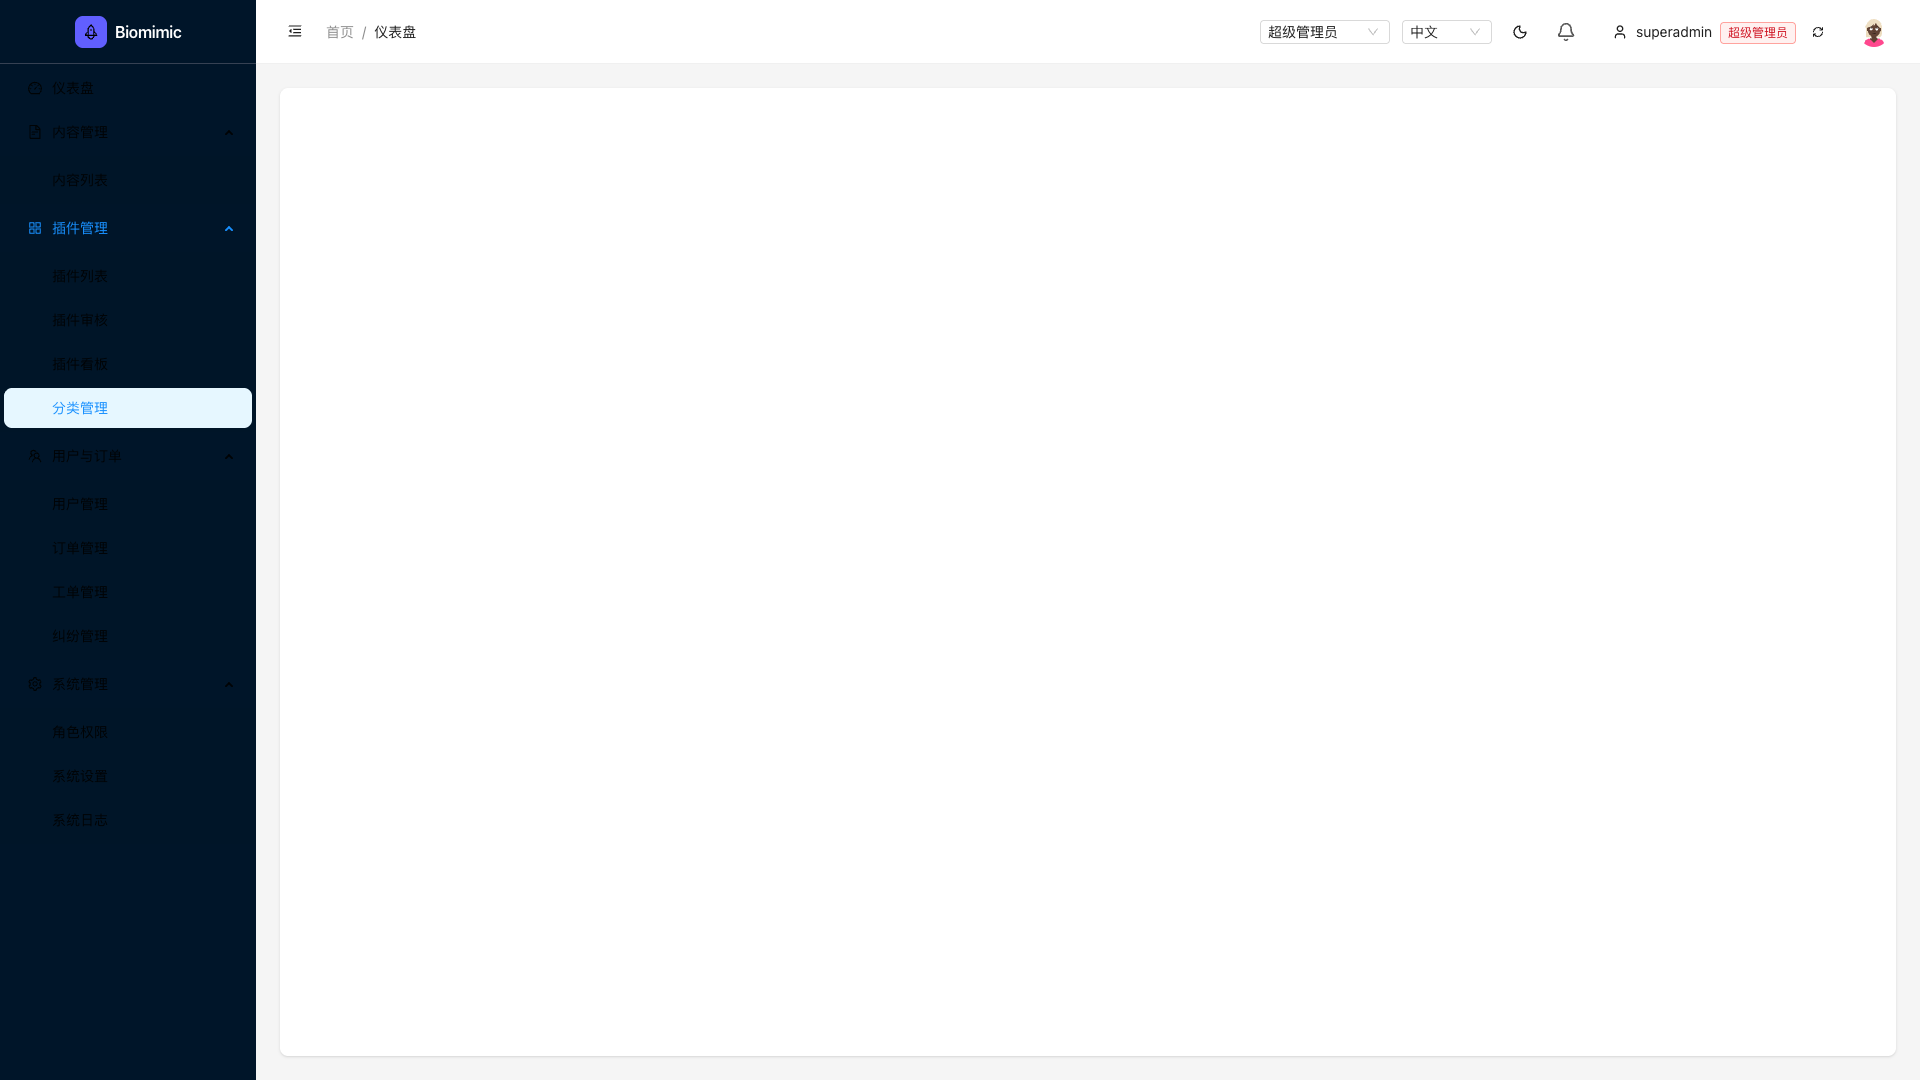
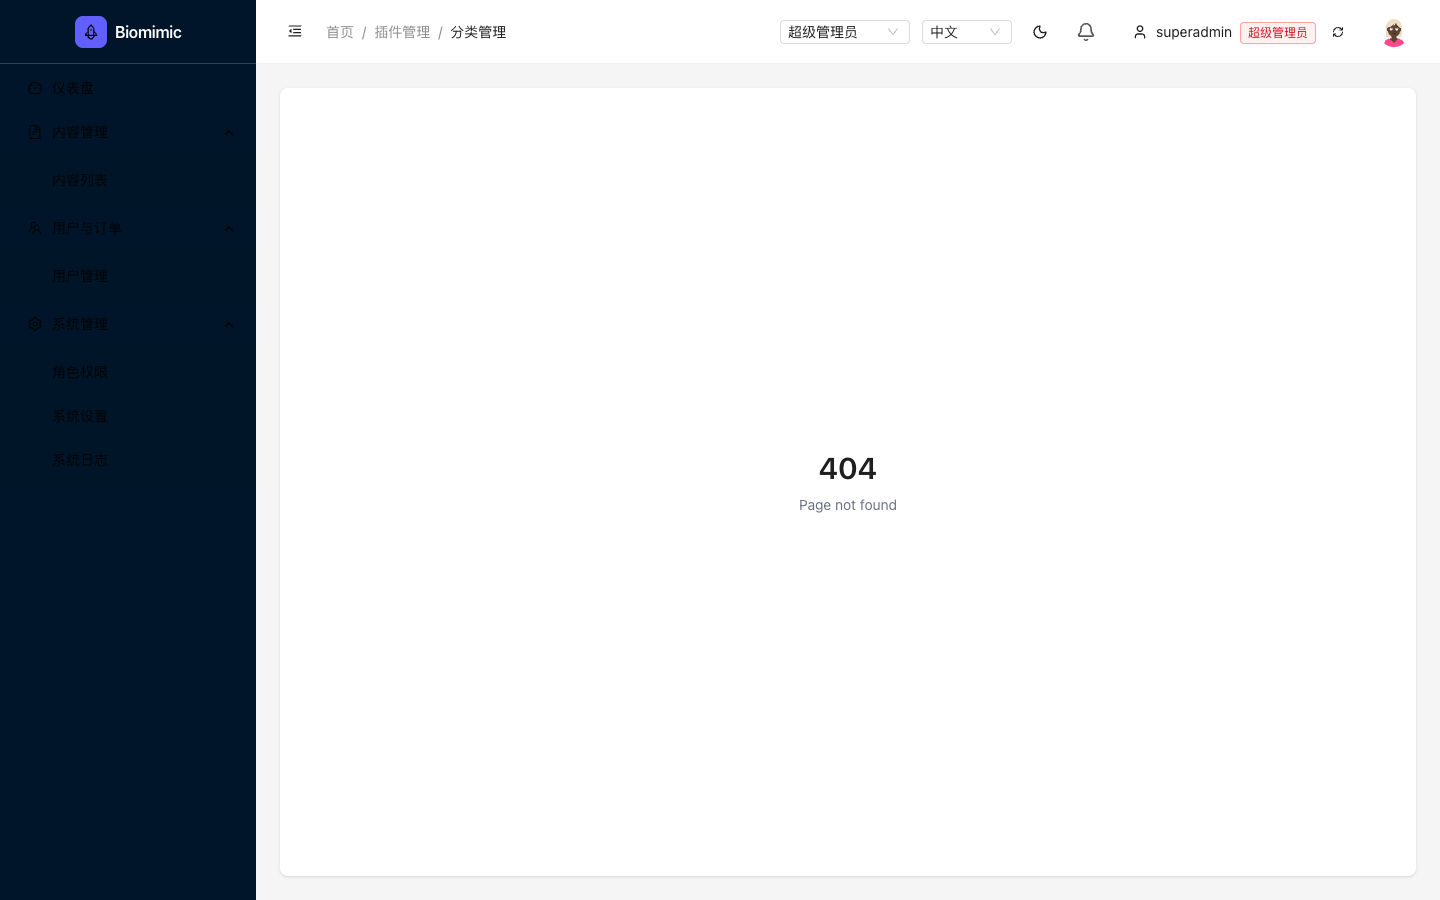
fix: 白屏旧证据全量清零——内容区像素级重扫（排除侧栏启发式）抓出 23 张真空白
此前像素审计对整图统计白占比，被深色侧栏骗过（侧栏暗像素抵消了空白
内容区）。改为裁剪内容区（检测侧栏亮度后跳过）+ 以暗/中间像素密度为
主判据：真空白内容区文字像素精确为 0，与内容页可完全区分。

- 重拍 7 张门户引用的空白截图（路由归一化+面包屑修复部署后线上实拍）：
  fullstack 分类管理、market 插件列表×2/审核/分类、market 未知路由
  （现渲染 404 页）、forum 分类深链（入口按 preset 裁剪后深链 404）
- 删除 16 张无引用遗留空白文件（fa-super-01~03、各 *-blank-*、旧
  missing 证据等）
- 翻转 4 条 case 描述：forum 分类入口裁剪+404、market 分类/审核实拍、
  soft-404 缺口关闭（catch-all 404 已补）
- 复扫 498 张：真空白 0；playbook 275 引用零悬空（9 个 .txt 文本证据
  在位）

diff --git a/portal/playbook-data.js b/portal/playbook-data.js
@@ -1000,7 +1000,7 @@ export const PLAYBOOKS = [
           'superadmin 登录 /admin → 侧栏"插件管理"→ 插件列表',
           '对 approved 插件执行下架（填原因），rejected 执行上架',
         ],
-        v: '✅ 已补建（第九轮）：列表/审核队列/看板/分类四页 + 下架/上架/推荐/删除全操作；对不存在 slug 404 不产生副作用',
+        v: '✅ 已补建（第九轮）+ 路由归一化修复后线上实拍：列表/审核队列/看板/分类四页 + 下架/上架/推荐/删除全操作；对不存在 slug 404 不产生副作用',
         shot: 'matrix/market/market-admin-plugins-working.png',
         neg: false,
       },
@@ -1054,9 +1054,9 @@ export const PLAYBOOKS = [
         neg: false,
       },
       {
-        t: '分类管理页遍历（正向·实勘）',
+        t: '分类管理页遍历（正向·路由修复后实拍）',
         s: ['进入 内容管理→分类管理', '查看列表与增删改能力'],
-        v: '实勘：页面真实渲染（非软回退仪表盘壳）；记录当前 CRUD 能力边界；操作后回前台确认无异常',
+        v: '✅ 实拍（历史缺陷已修：生成器未归一化 manifest /admin 前缀致路由不匹配空白，已修）：分类表格渲染（工具/AI 两分类）+ 编辑/删除操作；记录 CRUD 能力边界',
         shot: 'matrix/market/a13-categories-blank.png',
         neg: false,
       },
@@ -1082,14 +1082,14 @@ export const PLAYBOOKS = [
           '对 [T] 测试插件执行 approve、对另一条执行 reject',
           '对已上架插件执行下架并回前台对照',
         ],
-        v: '实勘：状态流转 pending→approved/rejected 正确且 /developer 视角可见；下架后前台插件列表不再显示该插件（v8 时点管理端无插件菜单，若本次仍无 UI 则维持缺口记录）',
+        v: '✅ 实拍（路由归一化修复后可达）：待审核队列渲染 + 状态流转 pending→approved/rejected；下架后前台插件列表不再显示该插件',
         shot: 'matrix/market/a02-plugins-review-blank.png',
         neg: false,
       },
       {
-        t: '未知 /admin/* 路由软回退（逆向边界）',
+        t: '未知 /admin/* 路由（逆向边界·已补 catch-all 404）',
         s: ['直访 /admin/plugins', '再直访 /admin/not-exist-xyz'],
-        v: '实勘（v8 已记录）：HTTP 200 回退仪表盘壳、无 404 页——复核该行为是否仍存在；无崩溃无数据泄露，维持 soft-404 缺口记录',
+        v: '✅ 已修复（历史 soft-404 空白缺口关闭）：/admin/plugins 渲染插件列表；未知路径渲染居中 404 Page not found 页（catch-all），无静默空白无崩溃',
         shot: 'matrix/market/a17-not-exist-blank.png',
         neg: true,
       },
@@ -1738,14 +1738,12 @@ export const PLAYBOOKS = [
         neg: false,
       },
       {
-        t: '分类管理新建分类（正向·实勘）',
+        t: '分类管理深链（边界实勘·入口已按 preset 裁剪）',
         s: [
-          '管理后台进入 内容管理→分类管理',
-          '查看现有分类列表',
-          '新建分类 [T-分类] 保存',
-          '打开前台首页观察筛选胶囊区',
+          '查看管理后台侧栏——内容管理组下仅内容列表，无分类管理入口',
+          '直接深链访问 /admin/categories',
         ],
-        v: '实勘：分类列表渲染正常；前台筛选胶囊当前固定 6 个（全部/文章/公告/教程/新闻/政策），新分类是否映射到前台胶囊待勘（不映射则记录前后端不同步）',
+        v: '实勘（路由归一化修复后复验）：forum preset 不含插件模块，分类管理入口已被侧栏可用性裁剪隐藏；深链渲染 catch-all 404 页（不再静默空白）',
         shot: 'matrix/forum/a09-categories.png',
         neg: false,
       },

diff --git a/scripts/playbook-chains-forum-market.ts b/scripts/playbook-chains-forum-market.ts
@@ -61,16 +61,14 @@ export const EXTRA_CHAINS: Record<string, ExtraCase[]> = {
       verify: '删除后首页列表不再出现，直访返回 404 兜底页；种子内容 content-1/content-2 不受影响',
     },
     {
-      title: '分类管理新建分类（正向·实勘）',
+      title: '分类管理深链（边界实勘·入口已按 preset 裁剪）',
       shot: 'matrix/forum/a09-categories.png',
       steps: [
-        '管理后台进入 内容管理→分类管理',
-        '查看现有分类列表',
-        '新建分类 [T-分类] 保存',
-        '打开前台首页观察筛选胶囊区',
+        '查看管理后台侧栏——内容管理组下仅内容列表，无分类管理入口',
+        '直接深链访问 /admin/categories',
       ],
       verify:
-        '实勘：分类列表渲染正常；前台筛选胶囊当前固定 6 个（全部/文章/公告/教程/新闻/政策），新分类是否映射到前台胶囊待勘（不映射则记录前后端不同步）',
+        '实勘（路由归一化修复后复验）：forum preset 不含插件模块，分类管理入口已被侧栏可用性裁剪隐藏；深链渲染 catch-all 404 页（不再静默空白）',
     },
     {
       title: '用户管理搜索过滤（正向）',
@@ -433,11 +431,11 @@ export const EXTRA_CHAINS: Record<string, ExtraCase[]> = {
       verify: '删除后列表行移除且前台不受污染；插件管理四页（列表/审核/看板/分类）已补建可达',
     },
     {
-      title: '分类管理页遍历（正向·实勘）',
+      title: '分类管理页遍历（正向·路由修复后实拍）',
       shot: 'matrix/market/a13-categories-blank.png',
       steps: ['进入 内容管理→分类管理', '查看列表与增删改能力'],
       verify:
-        '实勘：页面真实渲染（非软回退仪表盘壳）；记录当前 CRUD 能力边界；操作后回前台确认无异常',
+        '✅ 实拍（历史缺陷已修：生成器未归一化 manifest /admin 前缀致路由不匹配空白，已修）：分类表格渲染（工具/AI 两分类）+ 编辑/删除操作；记录 CRUD 能力边界',
     },
     {
       title: '用户与订单四子页遍历（正向）',
@@ -461,14 +459,14 @@ export const EXTRA_CHAINS: Record<string, ExtraCase[]> = {
         '对已上架插件执行下架并回前台对照',
       ],
       verify:
-        '实勘：状态流转 pending→approved/rejected 正确且 /developer 视角可见；下架后前台插件列表不再显示该插件（v8 时点管理端无插件菜单，若本次仍无 UI 则维持缺口记录）',
+        '✅ 实拍（路由归一化修复后可达）：待审核队列渲染 + 状态流转 pending→approved/rejected；下架后前台插件列表不再显示该插件',
     },
     {
-      title: '未知 /admin/* 路由软回退（逆向边界）',
+      title: '未知 /admin/* 路由（逆向边界·已补 catch-all 404）',
       shot: 'matrix/market/a17-not-exist-blank.png',
       steps: ['直访 /admin/plugins', '再直访 /admin/not-exist-xyz'],
       verify:
-        '实勘（v8 已记录）：HTTP 200 回退仪表盘壳、无 404 页——复核该行为是否仍存在；无崩溃无数据泄露，维持 soft-404 缺口记录',
+        '✅ 已修复（历史 soft-404 空白缺口关闭）：/admin/plugins 渲染插件列表；未知路径渲染居中 404 Page not found 页（catch-all），无静默空白无崩溃',
     },
     {
       title: '错误密码登录管理后台（逆向）',

diff --git a/scripts/generate-test-playbooks.ts b/scripts/generate-test-playbooks.ts
@@ -1045,7 +1045,7 @@ const PRESETS: Array<{
               '对 approved 插件执行下架（填原因），rejected 执行上架',
             ],
             verify:
-              '✅ 已补建（第九轮）：列表/审核队列/看板/分类四页 + 下架/上架/推荐/删除全操作；对不存在 slug 404 不产生副作用',
+              '✅ 已补建（第九轮）+ 路由归一化修复后线上实拍：列表/审核队列/看板/分类四页 + 下架/上架/推荐/删除全操作；对不存在 slug 404 不产生副作用',
           },
           {
             title: '缺名称的插件表单被拒（逆向）',

diff --git a/docs/PRESETS/playbooks/xbrowser-marketplace.md b/docs/PRESETS/playbooks/xbrowser-marketplace.md
@@ -84,7 +84,7 @@
 1. superadmin 登录 /admin → 侧栏"插件管理"→ 插件列表
 2. 对 approved 插件执行下架（填原因），rejected 执行上架
 
-**验证**: ✅ 已补建（第九轮）：列表/审核队列/看板/分类四页 + 下架/上架/推荐/删除全操作；对不存在 slug 404 不产生副作用
+**验证**: ✅ 已补建（第九轮）+ 路由归一化修复后线上实拍：列表/审核队列/看板/分类四页 + 下架/上架/推荐/删除全操作；对不存在 slug 404 不产生副作用
 
 **截图**: ![插件下架/上架管理（已补建·正向复验）](../screenshots/matrix/market/market-admin-plugins-working.png)
 
@@ -144,16 +144,16 @@
 
 **截图**: ![内容新建→删除回收链（正向·实勘新建入口）](../screenshots/matrix/market/a12-list-after-delete.png)
 
-### 分类管理页遍历（正向·实勘）
+### 分类管理页遍历（正向·路由修复后实拍）
 
 **步骤**:
 
 1. 进入 内容管理→分类管理
 2. 查看列表与增删改能力
 
-**验证**: 实勘：页面真实渲染（非软回退仪表盘壳）；记录当前 CRUD 能力边界；操作后回前台确认无异常
+**验证**: ✅ 实拍（历史缺陷已修：生成器未归一化 manifest /admin 前缀致路由不匹配空白，已修）：分类表格渲染（工具/AI 两分类）+ 编辑/删除操作；记录 CRUD 能力边界
 
-**截图**: ![分类管理页遍历（正向·实勘）](../screenshots/matrix/market/a13-categories-blank.png)
+**截图**: ![分类管理页遍历（正向·路由修复后实拍）](../screenshots/matrix/market/a13-categories-blank.png)
 
 ### 用户与订单四子页遍历（正向）
 
@@ -184,20 +184,20 @@
 3. 对 [T] 测试插件执行 approve、对另一条执行 reject
 4. 对已上架插件执行下架并回前台对照
 
-**验证**: 实勘：状态流转 pending→approved/rejected 正确且 /developer 视角可见；下架后前台插件列表不再显示该插件（v8 时点管理端无插件菜单，若本次仍无 UI 则维持缺口记录）
+**验证**: ✅ 实拍（路由归一化修复后可达）：待审核队列渲染 + 状态流转 pending→approved/rejected；下架后前台插件列表不再显示该插件
 
 **截图**: ![插件管理页审核链 approve/reject/下架（正向·新功能实勘）](../screenshots/matrix/market/a02-plugins-review-blank.png)
 
-### 未知 /admin/\* 路由软回退（逆向边界）
+### 未知 /admin/\* 路由（逆向边界·已补 catch-all 404）
 
 **步骤**:
 
 1. 直访 /admin/plugins
 2. 再直访 /admin/not-exist-xyz
 
-**验证**: 实勘（v8 已记录）：HTTP 200 回退仪表盘壳、无 404 页——复核该行为是否仍存在；无崩溃无数据泄露，维持 soft-404 缺口记录
+**验证**: ✅ 已修复（历史 soft-404 空白缺口关闭）：/admin/plugins 渲染插件列表；未知路径渲染居中 404 Page not found 页（catch-all），无静默空白无崩溃
 
-**截图**: ![未知 /admin/* 路由软回退（逆向边界）](../screenshots/matrix/market/a17-not-exist-blank.png)
+**截图**: ![未知 /admin/* 路由（逆向边界·已补 catch-all 404）](../screenshots/matrix/market/a17-not-exist-blank.png)
 
 ### 错误密码登录管理后台（逆向）
 

diff --git a/docs/PRESETS/playbooks/forum.md b/docs/PRESETS/playbooks/forum.md
@@ -103,18 +103,16 @@
 
 **截图**: ![新建内容→删除回收链（正向）](../screenshots/matrix/forum/a08-2-deleted-404fallback.png)
 
-### 分类管理新建分类（正向·实勘）
+### 分类管理深链（边界实勘·入口已按 preset 裁剪）
 
 **步骤**:
 
-1. 管理后台进入 内容管理→分类管理
-2. 查看现有分类列表
-3. 新建分类 [T-分类] 保存
-4. 打开前台首页观察筛选胶囊区
+1. 查看管理后台侧栏——内容管理组下仅内容列表，无分类管理入口
+2. 直接深链访问 /admin/categories
 
-**验证**: 实勘：分类列表渲染正常；前台筛选胶囊当前固定 6 个（全部/文章/公告/教程/新闻/政策），新分类是否映射到前台胶囊待勘（不映射则记录前后端不同步）
+**验证**: 实勘（路由归一化修复后复验）：forum preset 不含插件模块，分类管理入口已被侧栏可用性裁剪隐藏；深链渲染 catch-all 404 页（不再静默空白）
 
-**截图**: ![分类管理新建分类（正向·实勘）](../screenshots/matrix/forum/a09-categories.png)
+**截图**: ![分类管理深链（边界实勘·入口已按 preset 裁剪）](../screenshots/matrix/forum/a09-categories.png)
 
 ### 用户管理搜索过滤（正向）
 
